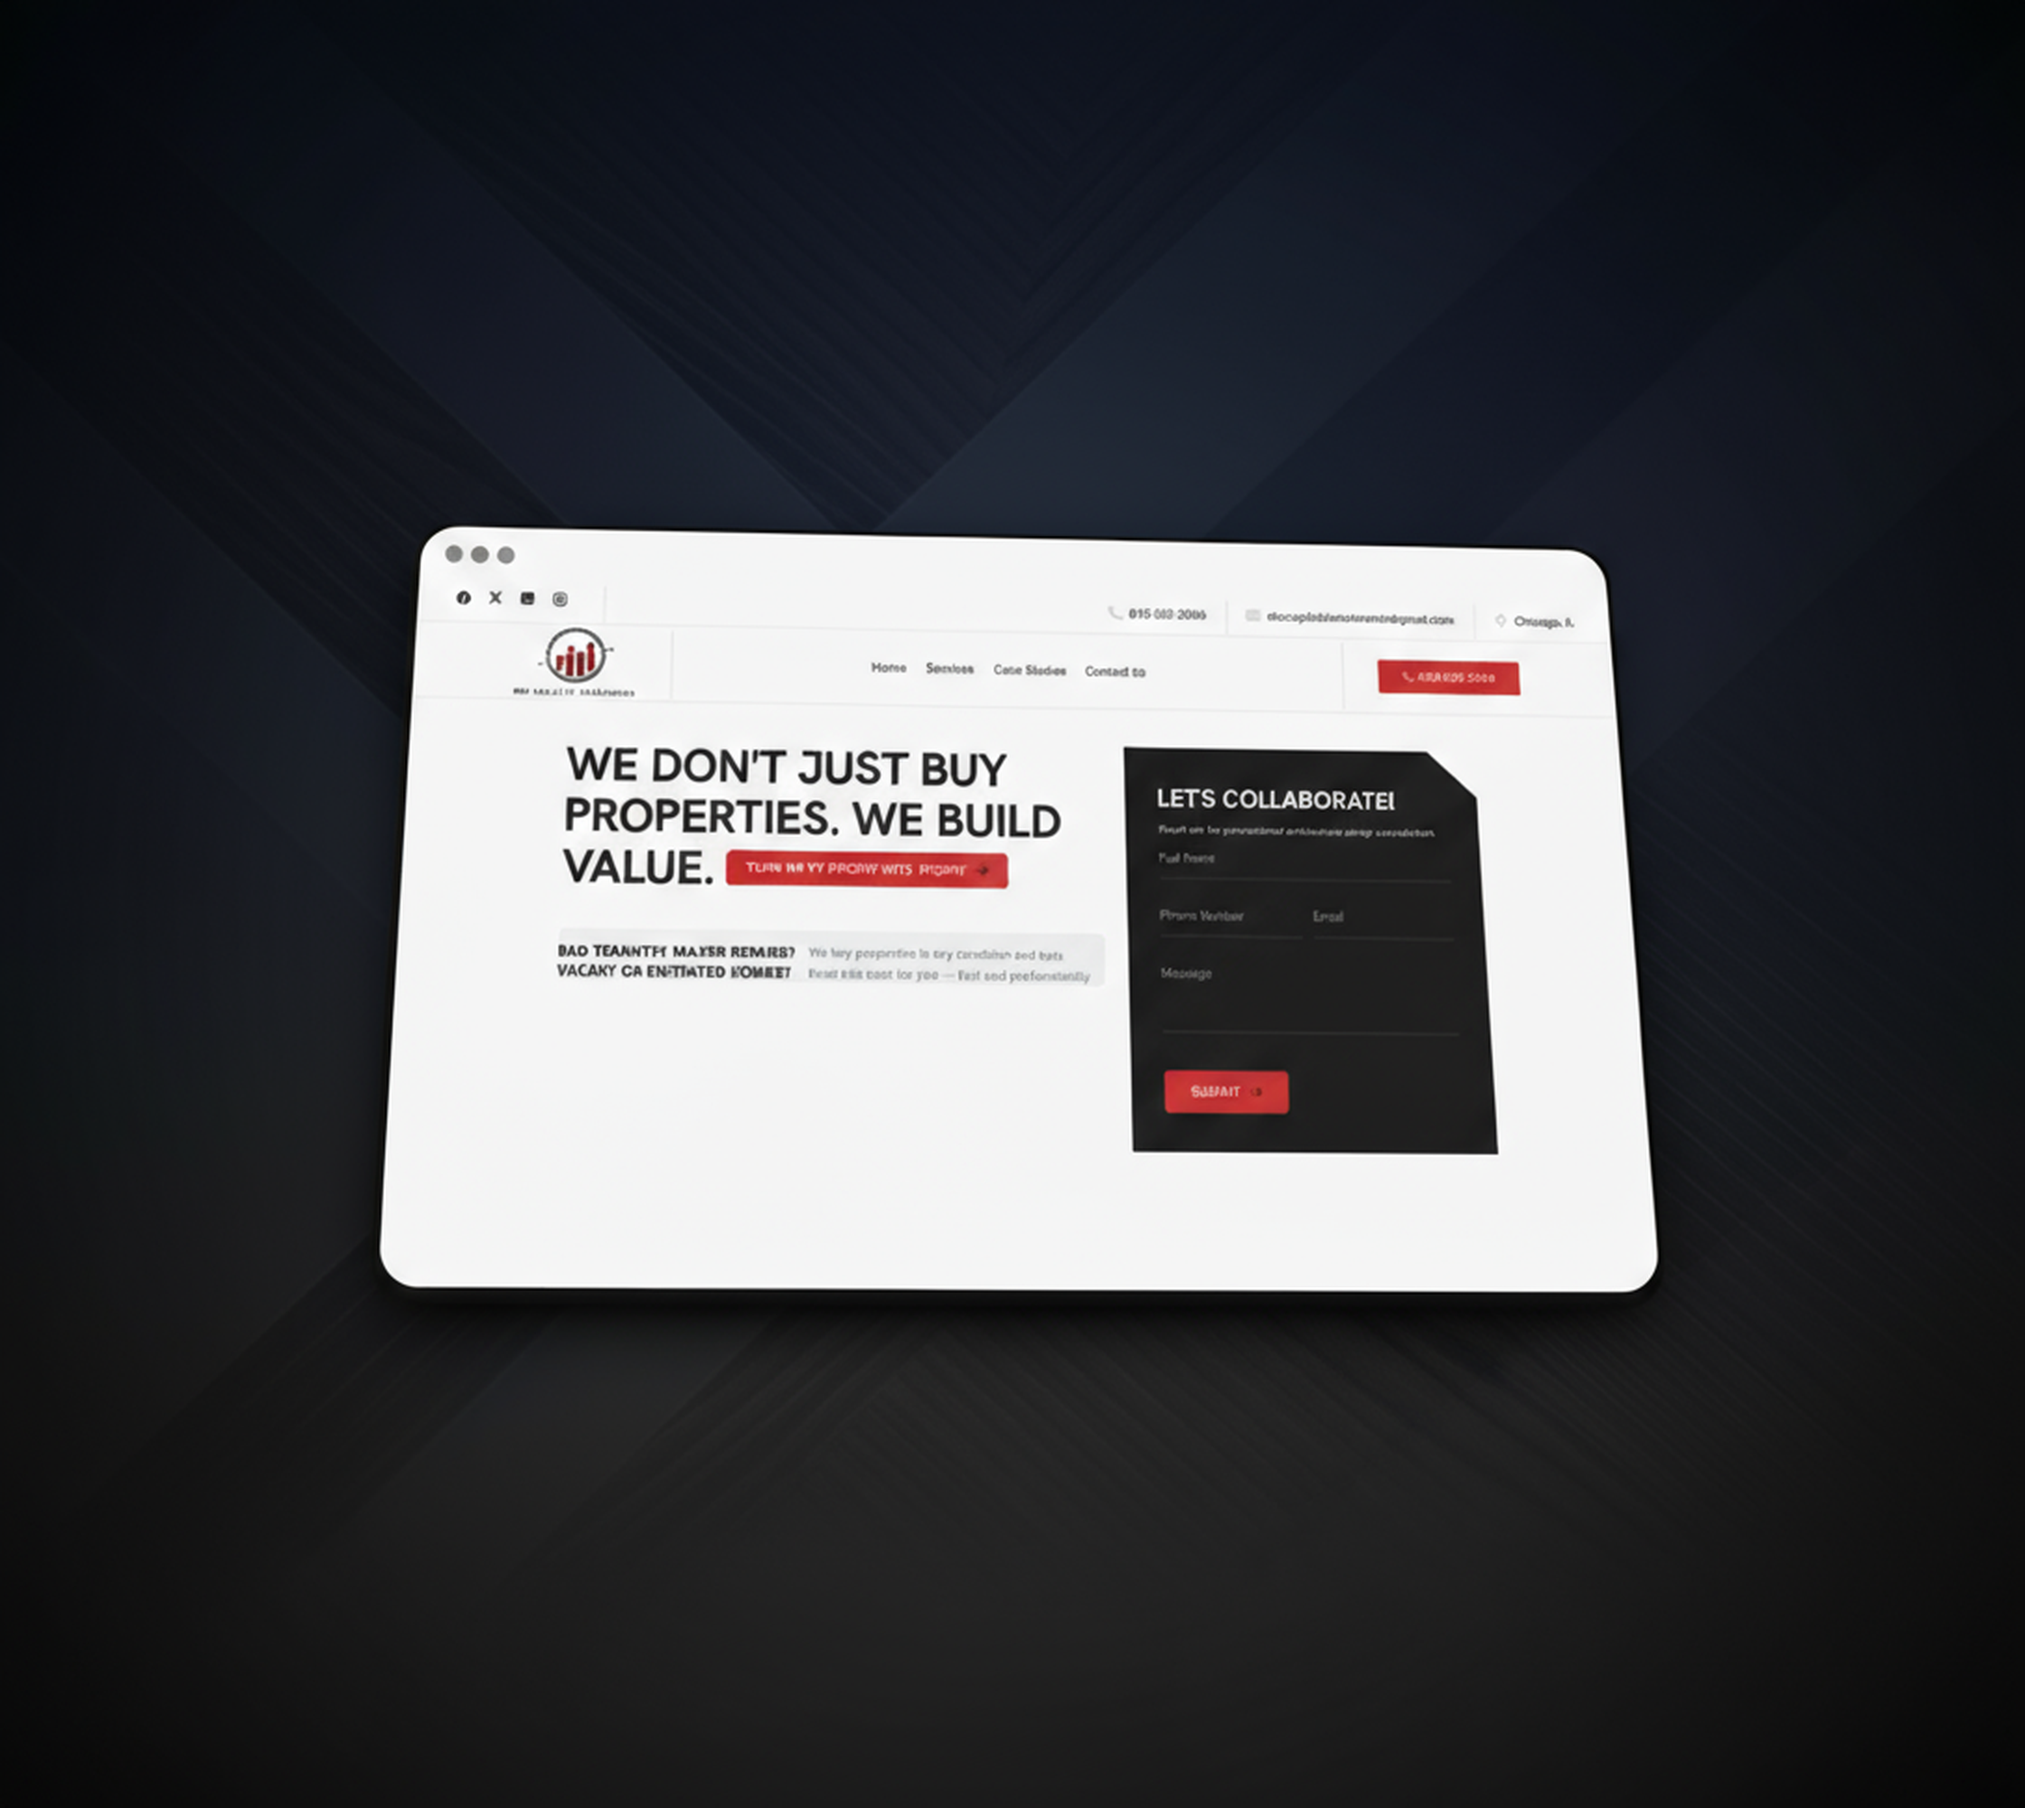
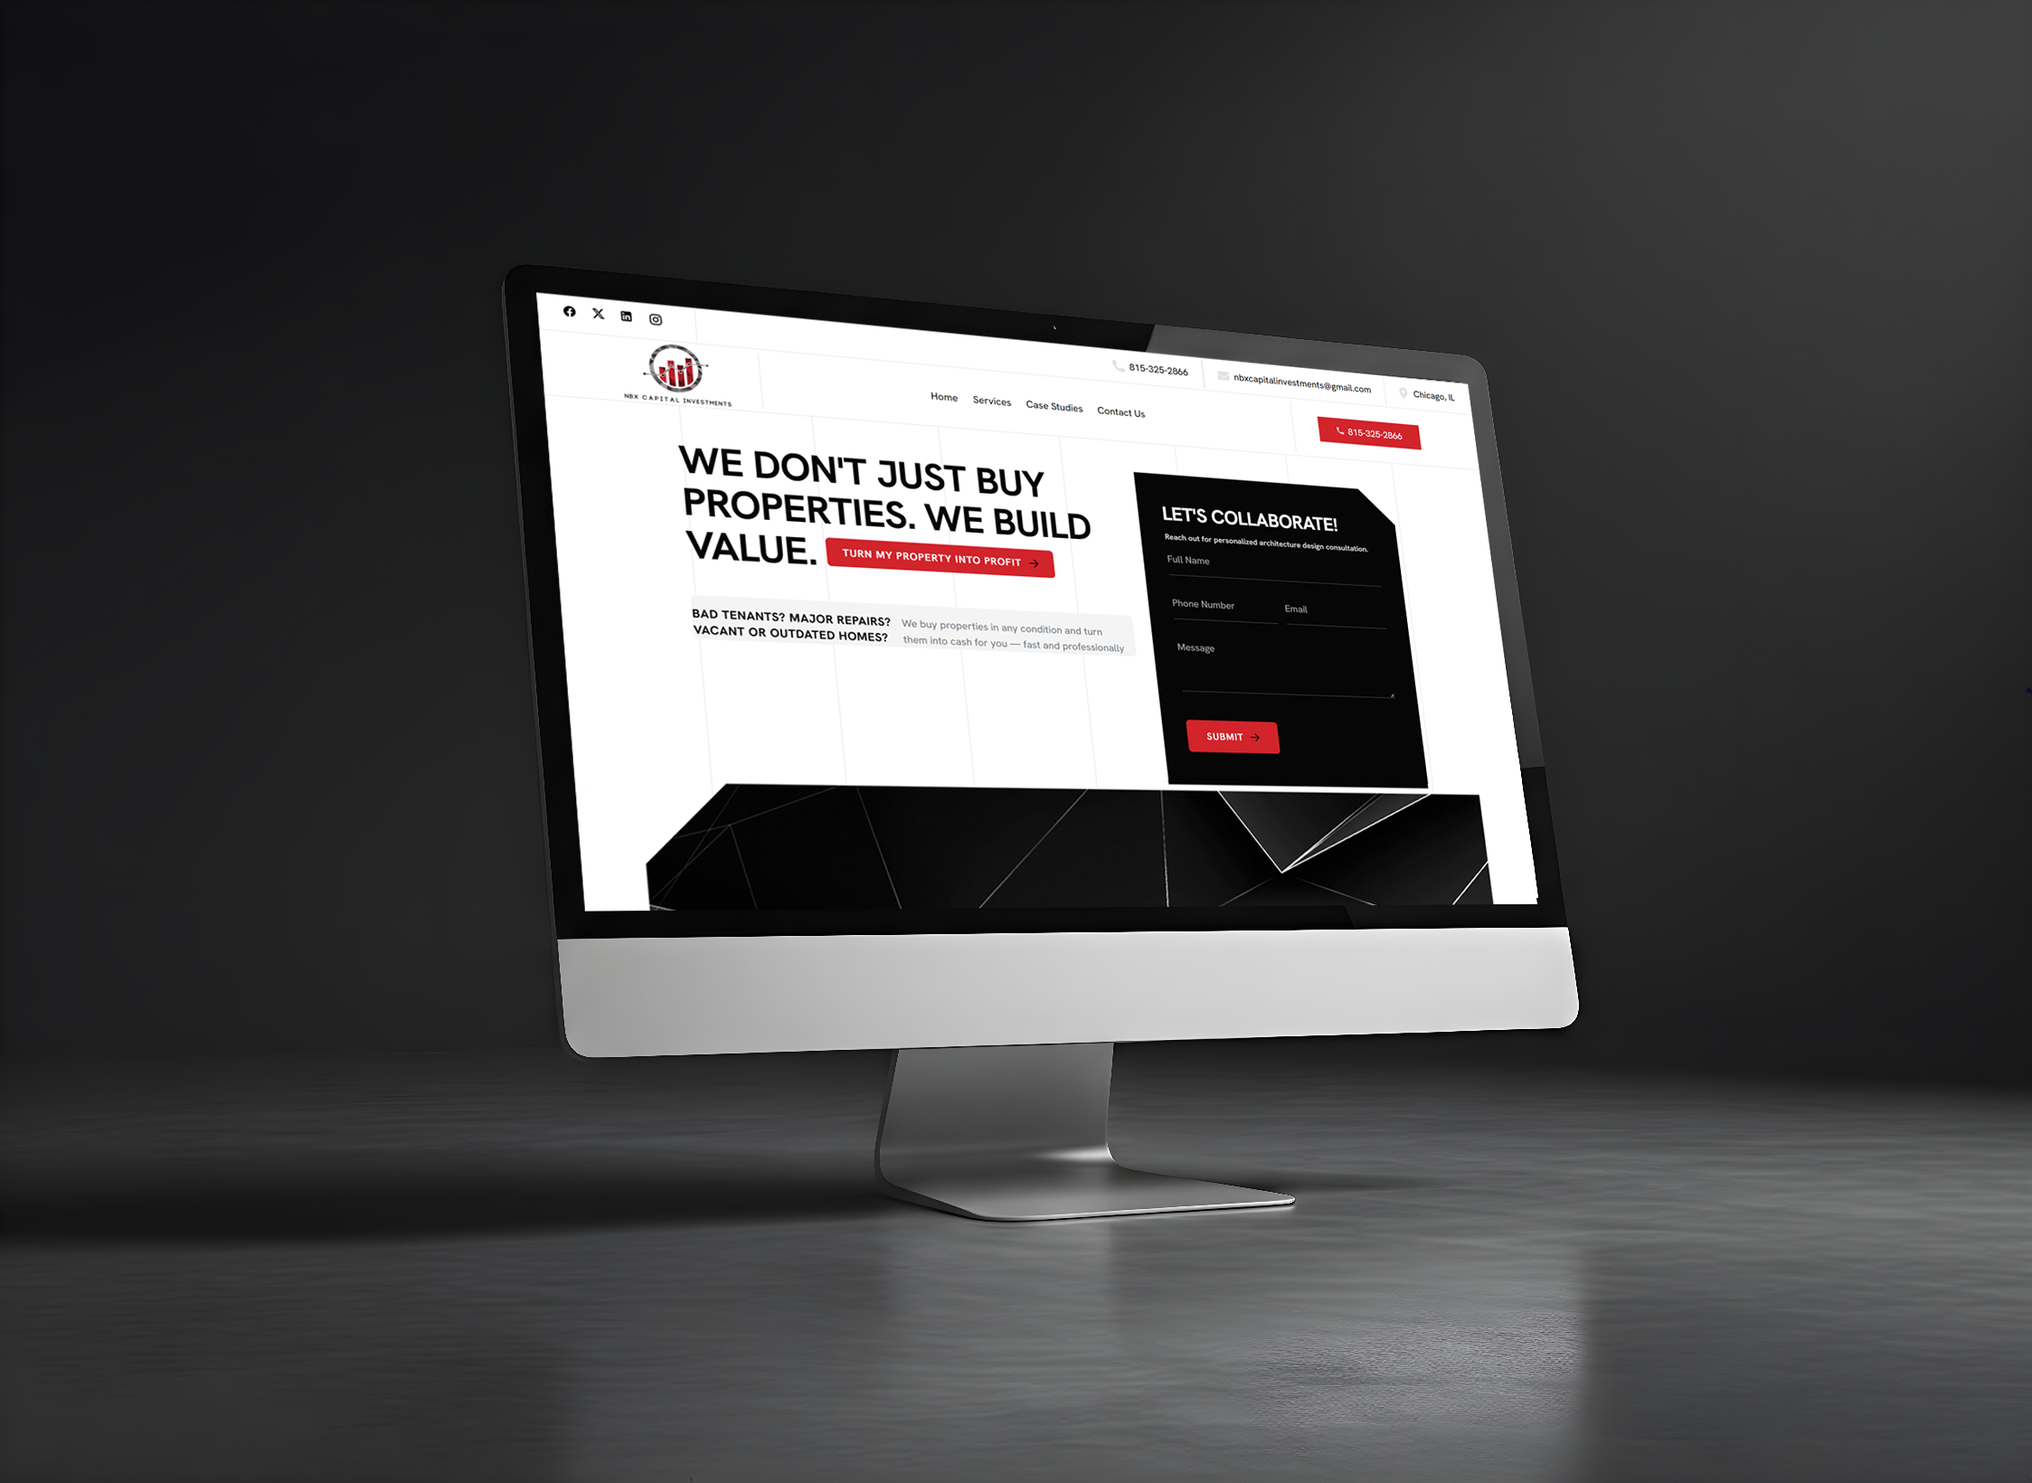
project cards style updated!

diff --git a/src/data/ProjectShowcase.js b/src/data/ProjectShowcase.js
@@ -19,7 +19,7 @@ const projects = [
   {
     title: "Disgraced Online Store",
     description: "A stylish online store offering a curated selection of fashion apparel and accessories. Features a sleek design, easy navigation, and secure checkout process.",
-    image: "../public/images/Disgraced.png", // Add your screenshot here
+    image: "/images/Disgraced.png", // Add your screenshot here
     technologies: ["React", "E-commerce", "Stripe", "Tailwind CSS"],
     link: "https://disgraced.shop/",
     slug: "aastore-online"
@@ -27,7 +27,7 @@ const projects = [
   {
     title: "Portfolio Website",
     description: "A sleek and modern portfolio showcasing creative work with smooth animations and an intuitive user interface.",
-    image: "../public/images/Desktop.png",
+    image: "/images/desktop.png",
     technologies: ["HTML", "CSS", "JavaScript", "GSAP"],
     link: "https://nbx-capitals-investments.netlify.app/",
     slug: "portfolio-website"
@@ -35,7 +35,7 @@ const projects = [
   {
     title: "Medical Appointment Website",
     description: "A comprehensive medical appointment booking system with user-friendly interface, real-time availability, and secure patient data management.",
-    image: "../public/images/websiteUI.webp",
+    image: "/images/websiteUI.webp",
     technologies: ["Vue.js", "Firebase", "Vuetify", "PWA"],
     link: "#",
     slug: "task-management-app"

diff --git a/.astro/types.d.ts b/.astro/types.d.ts
@@ -1,2 +1,1 @@
 /// <reference types="astro/client" />
-/// <reference path="content.d.ts" />
